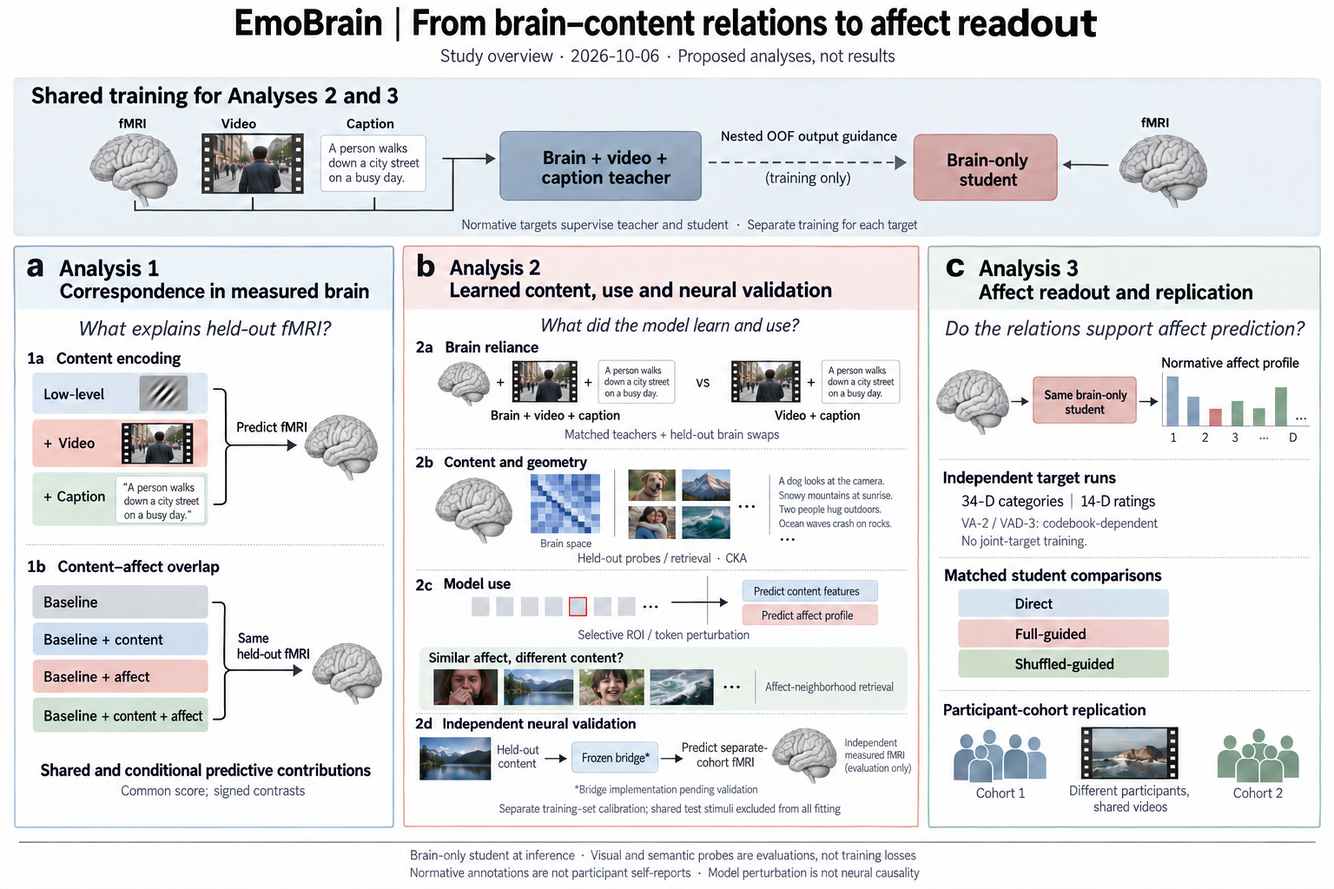
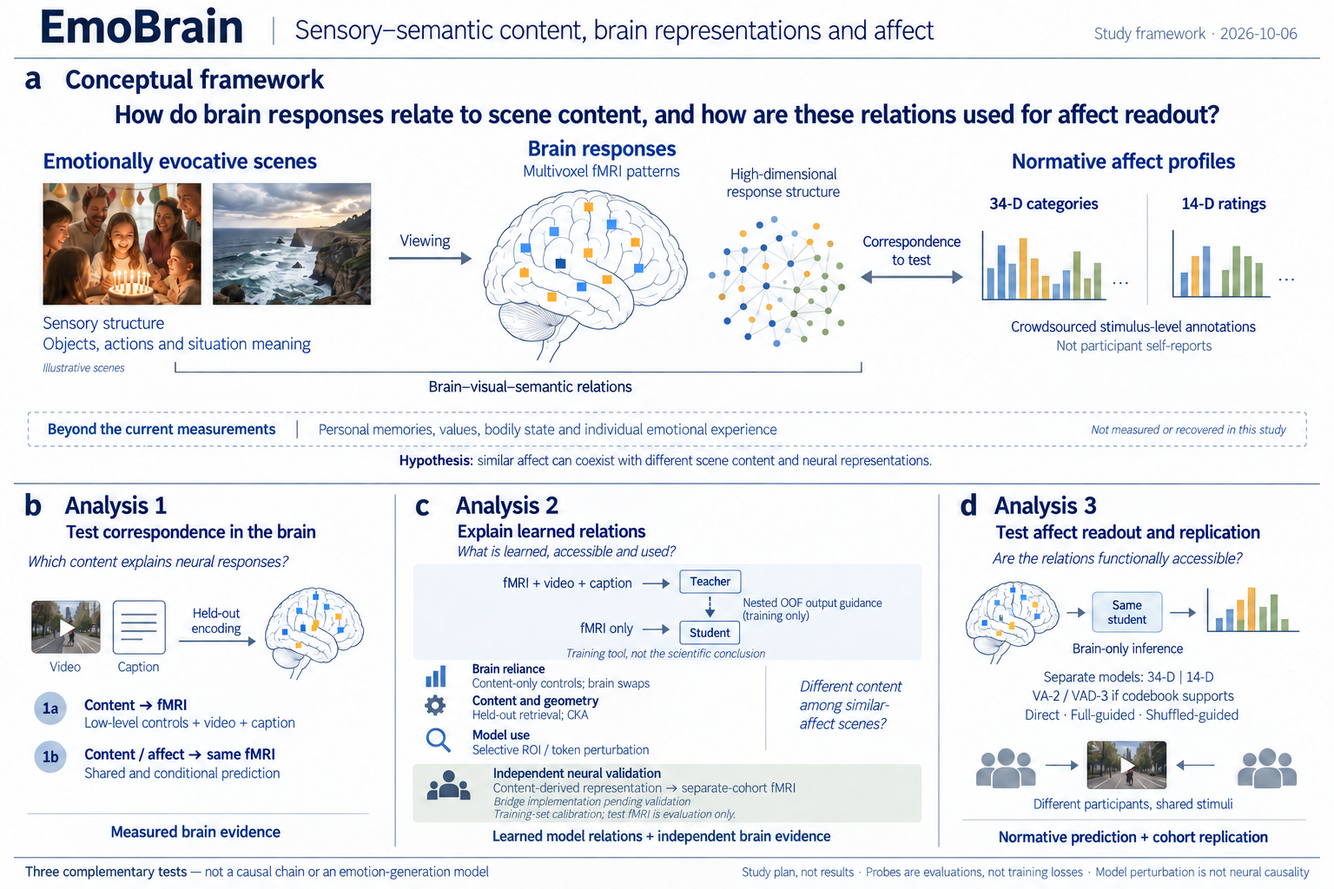
docs: center study overview on conceptual framework

diff --git a/docs/assets/study_overview.md b/docs/assets/study_overview.md
@@ -8,7 +8,9 @@ _Figure specification and editable study logic · 2026-10-06 · Not experimental
 
 ### Purpose and authority
 
-The README figure separates direct neural correspondence (Analysis 1), learned content and model use with independent neural validation (Analysis 2), and affect readout with participant-cohort replication (Analysis 3). Teacher–student training is shared preparation for Analyses 2 and 3, not a fourth analysis or a demonstration that latent geometry transfers.
+The README figure starts with the conceptual question: how do brain responses relate to scene content, and how are these relations used for affect readout? Panel a connects illustrative emotionally evocative scenes, measured multivoxel responses, high-dimensional response structure and external normative profiles. Panels b–d then distinguish direct neural correspondence (Analysis 1), learned content and model use with independent neural validation (Analysis 2), and affect readout with participant-cohort replication (Analysis 3). Teacher–student training is a subordinate tool inside Analysis 2 and also supports Analysis 3, not the study's headline or a demonstration that latent geometry transfers.
+
+The user's conceptual reference motivates the hierarchy, not new scientific commitments. Personal memories, values, bodily state and individual experience are explicitly outside current measurements. The image does not adopt a shared-scaffold / situated-conjunction decomposition, adaptive-balance mechanism or effective-dimensionality analysis. No such analysis is added by this visual revision.
 
 Sources: [study design](../current/01_STORY_AND_DESIGN.md), [neural-validation amendment](../current/06_NEURAL_VALIDATION_AMENDMENT.md) and [decision register](../current/04_DECISION_REGISTER.md). These documents govern interpretation; the figure does not freeze pending choices.
 
@@ -17,13 +19,24 @@ Sources: [study design](../current/01_STORY_AND_DESIGN.md), [neural-validation a
 1. **Question:** How do the three analyses provide distinct evidence for the brain–content thesis?
 2. **Alternative explanation:** An architecture-only diagram could imply that better prediction or output distillation alone establishes learned content and neural mechanisms.
 3. **Basis:** The accepted three-analysis design and the 1b/2d amendment linked above, not new experimental evidence.
-4. **Choice:** One three-panel study overview with a shared-training strip, rather than adding a separate analysis or repeating a detailed architecture figure.
+4. **Choice:** A large conceptual framework followed by three complementary tests; training is shown as a smaller supporting tool. The previous top-level training strip obscured the whole-study motivation, as the user's feedback identified.
 5. **Revision criterion:** Update the figure if the accepted design changes or if a depicted method fails feasibility review; do not retain obsolete arrows for visual continuity.
 6. **Limits:** No effect sizes, successful outcomes, causal emotion decomposition, individual feelings or confirmed bridge feasibility are claimed.
 
 ### Editable logic
 
-Arrows below represent data flow or evaluation branches, not biological causality. Analysis 1 is separate from teacher–student training. The frozen student supports both model interpretation and affect readout.
+The conceptual diagram below separates measured relationships from the complementary tests; the second diagram records the supporting model workflow. Connections are not evidence of biological causality. Analysis 1 is separate from teacher–student training. The frozen student supports both model interpretation and affect readout.
+
+```mermaid
+flowchart TB
+    accTitle: EmoBrain conceptual question and tests
+    accDescr: Scene viewing produces measured fMRI patterns whose correspondence with external normative profiles is tested. Three complementary analyses investigate neural correspondence, learned content and use, and affect readout with replication; personal experience is not directly measured.
+    evocative_scenes["Sensory-semantic scene content"] -->|Viewing| measured_brain["Measured multivoxel brain responses"]
+    measured_brain ---|Test correspondence| normative_profiles["External normative affect profiles"]
+    central_question["Brain-content relations and affect readout"] --> neural_test["Analysis 1: neural correspondence"]
+    central_question --> model_test["Analysis 2: learned relations and use"]
+    central_question --> readout_test["Analysis 3: readout and replication"]
+```
 
 ```mermaid
 flowchart TB
@@ -52,13 +65,15 @@ flowchart TB
 
 The raster is generated with the built-in image-generation tool using the exact prompt below. The Mermaid block is the editable logic source, not a pixel-reproducible renderer. Review is manual for text, arrows, scope and clipping; no automated journal-quality score, print certification or experimental validation is implied.
 
-Selected asset: [study_overview.png](study_overview.png). One targeted revision replaced ambiguous teacher-control pictograms with explicit brain + video + caption versus video + caption inputs, added the brain-swap diagnostic label, and replaced invented affect-dimension names with neutral indices. The final image was visually inspected for complete margins, legible major labels and the specified information boundaries. The matrix, bar heights, pictures and participant icons are illustrative; their values, affect similarity and counts are not study observations. Full-size viewing is recommended for small annotations.
+Selected asset: [study_overview.png](study_overview.png). Redesigned after the user's feedback to prioritize conceptual motivation over training. A targeted correction made fMRI an explicit teacher and student input and removed a misleading student-to-brain output arrow. The final image was visually inspected for complete margins, legible major labels and the specified information boundaries. The response-structure graph, bar heights, scene pictures, brain patches and participant icons are illustrative; their values, affect similarity, localization and counts are not study observations. Full-size viewing is recommended for small annotations. The user-supplied conceptual image was a layout reference only and is not redistributed in this repository. The former asset and prompt remain recoverable from Git history, not as duplicate active files.
 
 ## 📚 한국어
 
 ### 목적과 기준
 
-README 그림은 실제 뇌에서의 대응(분석 1), 학습된 내용·모델 내 사용과 독립 뇌 검증(분석 2), 정서 프로필 예측과 참가자 집단 간 재현(분석 3)을 구분한다. Teacher–student 학습은 분석 2·3의 공통 준비이며, 별도의 네 번째 분석이나 latent geometry 전달의 증거가 아니다.
+README 그림은 ‘장면 내용과 뇌 반응은 어떻게 관련되고, 그 관계가 정서 프로필 예측에 어떻게 사용되는가?’라는 개념적 질문으로 시작한다. 상단 a는 설명용 장면, 측정된 다중 voxel 뇌 반응, 고차원 반응 구조, 외부 규준 정서 프로필을 연결한다. 아래 b–d는 실제 뇌에서의 대응(분석 1), 학습된 내용·모델 내 사용과 독립 뇌 검증(분석 2), 정서 프로필 예측과 참가자 집단 간 재현(분석 3)을 구분한다. Teacher–student 학습은 분석 2 안의 하위 도구로 배치하고 분석 3에서도 활용한다. 연구의 핵심 결론이나 latent geometry 전달의 증거로 제시하지 않는다.
+
+사용자가 첨부한 그림에서는 개념을 먼저 보여주는 구성만 참고했다. 개인 기억·가치·신체 상태·개인 경험은 현재 측정 범위 밖임을 명시했다. Shared scaffold / situated conjunctions 분해, adaptive balance 기전, effective dimensionality 분석은 채택하거나 새로 추가하지 않았다.
 
 기준은 위에 연결한 연구 설계·보강 문서·결정 기록이다. 그림이 미확정 결정을 자동으로 동결하지 않는다.
 
@@ -67,7 +82,7 @@ README 그림은 실제 뇌에서의 대응(분석 1), 학습된 내용·모델 
 1. **질문:** 세 분석은 뇌–내용 관계라는 명제에 각각 어떤 근거를 제공하는가?
 2. **대안 설명:** 구조도만 제시하면 예측 성능 향상이나 출력 증류만으로 내용 학습과 신경 기전이 입증된 것처럼 보일 수 있다.
 3. **근거:** 승인된 세 분석과 1b/2d 보강 방향이며, 새로운 실험 결과가 아니다.
-4. **선택 이유:** 공통 학습 부분과 세 연구 질문을 한 장에 표시한다. 새 분석이나 상세 모델 구조도를 추가하지 않는다.
+4. **선택 이유:** 큰 개념적 틀 아래 세 검정을 배치하고 학습은 작은 보조 도구로 표시한다. 이전 상단 학습 박스가 전체 연구 동기를 가렸다는 사용자 피드백을 반영했다.
 5. **수정 기준:** 승인 설계가 바뀌거나 실행 가능성 검토에서 방법이 제외되면 그림도 수정한다. 모양 유지를 위해 낡은 화살표를 남기지 않는다.
 6. **한계:** 효과 크기, 성공 결과, 감정의 인과적 분해, 개인 감정, bridge 실행 가능성 확정을 주장하지 않는다.
 
@@ -84,73 +99,84 @@ README 그림은 실제 뇌에서의 대응(분석 1), 학습된 내용·모델 
 
 내장 이미지 생성 도구와 아래의 정확한 프롬프트로 PNG를 만든다. 위 Mermaid는 수정 가능한 논리 원본이며 픽셀 단위 재생성기는 아니다. 글자·화살표·범위·잘림을 직접 검수하며, 자동 저널 품질 점수나 인쇄 인증, 실험 검증을 수행했다고 주장하지 않는다.
 
-최종 파일은 [study_overview.png](study_overview.png)다. 한 차례 수정으로 teacher 대조를 뇌+영상+caption 대 영상+caption으로 명확히 표시하고 brain swap 진단을 추가했으며, 확인되지 않은 정서 차원 이름을 중립적인 번호로 교체했다. 최종 그림의 여백, 주요 글자, 정보 접근 경계를 직접 확인했다. 행렬·막대 높이·사진·참가자 아이콘의 값, 정서 유사성, 인원수는 연구 관측값이 아니다. 작은 주석은 원본 크기로 보는 것을 권장한다.
+최종 파일은 [study_overview.png](study_overview.png)다. 사용자 피드백에 따라 학습 절차보다 개념적 동기를 앞세우도록 다시 구성했다. 부분 수정으로 teacher와 student의 fMRI 입력을 명시하고, student가 뇌를 생성하는 것처럼 보이는 화살표를 제거했다. 최종 그림의 여백, 주요 글자, 정보 접근 경계를 직접 확인했다. 반응 구조 그래프·막대·장면·뇌의 색 표시·참가자 아이콘은 설명용이며 실제 값, 정서 유사성, 해부학적 위치, 인원수를 나타내지 않는다. 작은 주석은 원본 크기로 보는 것을 권장한다. 사용자 첨부 개념도는 배치 참고용이며 저장소에 재배포하지 않는다. 이전 그림과 프롬프트는 별도 현행 사본을 만들지 않고 Git 이력에 보존한다.
 
 ## 🔧 Generation prompt / 생성 프롬프트
 
 ```text
-Create a polished neuroscience STUDY OVERVIEW FIGURE for the EmoBrain GitHub README, not a result figure. Landscape 3000 by 2000 pixel preferred, exceptionally readable at 1400px wide. Nature-style restrained editorial scientific figure: white background, charcoal Helvetica/Arial typography, fine dark grey arrows and separators, generous whitespace, only muted slate blue, dusty terracotta and desaturated sage accents. No neon, no gradients, no shadows, no rounded-card infographic dashboard, no clipart emoji. Small anatomically plausible grey brain illustrations and small realistic illustrative video thumbnails make it intuitive; all scientific graphics are schematic, not experimental results. Keep all margins safe, nothing cropped.
+Create a completely redesigned, exceptionally clear full-study neuroscience overview for EmoBrain. The attached image is ONLY a reference for putting CONCEPTUAL FRAMEWORK and a prominent brain BEFORE methodology; do NOT copy its untested constructs or its individualized-experience claims.
 
-TITLE centered: "EmoBrain | From brain–content relations to affect readout"
-Small subtitle: "Study overview · 2026-10-06 · Proposed analyses, not results"
+Scientific editorial style reminiscent of Nature: white background, crisp charcoal/navy Helvetica, restrained muted blue/ochre/sage, thin rules, simple elegant brain line art with small colored response patches, realistic tiny scene illustrations, ample whitespace. No gradient panels, no dashboard cards, no neon, no stock 3D brain CGI. Landscape 3:2, high resolution. Large readable typography. Treat as a journal overview not a conference model architecture. Keep generous safe margins.
 
-LAYOUT: full-width top shared-training strip, then three vertical panels a, b, c below. Panel b slightly wider than others. Thin grey rules between panels. Main panels must be tall and airy. The main reading sequence is a to b to c but DO NOT draw causal arrows between panels. Top training strip is explicitly the common preparation for Analyses 2 and 3, not input to Analysis 1.
+TITLE "EmoBrain"
+SUBTITLE "Sensory–semantic content, brain representations and affect"
+Small date "Study framework · 2026-10-06"
 
-TOP STRIP heading "Shared training for Analyses 2 and 3".
-Left show three small inputs with unmistakable labels "fMRI", "Video", "Caption" leading together to a box labeled "Brain + video + caption teacher". IMPORTANT brain must be visible among teacher inputs.
-A dashed arrow from teacher to a student box labeled "Nested OOF output guidance" above it and "(training only)" below it. An independent fMRI brain icon arrow enters the student labeled "Brain-only student".
-Small neutral annotation below this strip: "Normative targets supervise teacher and student · Separate training for each target".
-Do not connect video or caption directly to student. Do not depict latent alignment loss. This strip is conceptual, not a detailed loss schematic.
+COMPOSITION: Top 45% is a full-width panel a with the scientific idea and central question. Bottom 55% is three aligned panels b, c, d, corresponding to Analysis 1, Analysis 2, Analysis 3. Panel c slightly wider. Main attention should be the top concept, NOT the teacher architecture. NO shared-training header at top.
 
-PANEL a title two lines: "a  Analysis 1" / "Correspondence in measured brain"
-Question italic: "What explains held-out fMRI?"
-Subheading "1a  Content encoding"
-Draw three neatly stacked feature sets "Low-level", "+ Video", "+ Caption", with a simple brace or common arrow to a small grey brain labeled "Predict fMRI". The stack indicates nested predictors, not separate image encoders.
-Subheading "1b  Content–affect overlap"
-Show FOUR small rows in a compact comparison list:
-"Baseline"
-"Baseline + content"
-"Baseline + affect"
-"Baseline + content + affect"
-One arrow from their shared brace to text "Same held-out fMRI".
-Below label: "Shared and conditional predictive contributions"
-Tiny note: "Common score; signed contrasts"
-No Venn diagram, no percentages, no fictitious quantitative result.
+TOP a heading "a  Conceptual framework"
+Central question in bold just below:
+"How do brain responses relate to scene content, and how are these relations used for affect readout?"
 
-PANEL b title "b  Analysis 2" / "Learned content, use and neural validation"
-Question italic: "What did the model learn and use?"
-Three compact rows with small meaningful visuals:
-"Brain reliance" — a brain icon and paired versus swapped input symbol; small line "Brain + content vs content-only teacher".
-"Content and geometry" — small brain representation grid next to film thumbnails and caption lines; small line "Held-out probes / retrieval · CKA".
-"Model use" — a few token squares with one outlined and arrow to two readouts; small line "Selective ROI / token perturbation".
-A distinct slim callout: "Similar affect, different content?"
-small line "Affect-neighborhood retrieval".
-Lower subheading "2d  Independent neural validation".
-A short illustrated pipeline entirely within this panel: "Held-out content" arrow "Frozen bridge*" arrow "Predict separate-cohort fMRI". Put independent measured brain icon only as evaluation comparator, not input to this path. Under line "*Bridge implementation pending validation".
-No training arrow from the evaluation brain back into the model. Caption small "Separate training-set calibration; shared test stimuli excluded from all fitting".
+Across this top panel, draw three major groups.
+LEFT group heading "Emotionally evocative scenes". Two small tasteful scene illustrations: people sharing a birthday cake, and a dramatic ocean landscape. Below them two short lines "Sensory structure" and "Objects, actions and situation meaning". Small footnote "Illustrative scenes".
+CENTER group heading "Brain responses". A large anatomically plausible line-art brain, small dispersed blue and ochre response squares on its surface, no named emotion centers. Subtitle "Multivoxel fMRI patterns". Next to brain, within same group, a small sparse cloud of interconnected colored dots, labelled "High-dimensional response structure". Do not depict a settled two-subspace theory or a dimensionality estimate.
+RIGHT group heading "Normative affect profiles". Two tiny generic multibar profiles labelled "34-D categories" and "14-D ratings". These are separate reference spaces, not simultaneous training outputs. Under profiles label "Crowdsourced stimulus-level annotations" and "Not participant self-reports".
+Draw a single solid arrow from scenes to brain labelled "Viewing". Between brain-response structure and normative profiles draw a bidirectional thin arrow labelled "Correspondence to test". A subtle bracket or line under scenes plus brain states "Brain–visual–semantic relations" (not causal mediation).
+Below these groups a small light-grey dashed-border horizontal band titled "Beyond the current measurements". Body "Personal memories, values, bodily state and individual emotional experience". No arrows from this band into the measured model. It is theoretical context, not observed variables or new analyses. Do not claim these are measured or recovered.
+One small note at bottom of panel a: "Hypothesis: similar affect can coexist with different scene content and neural representations."
+Do not claim that emotion equals visual plus semantic input. No 'adaptive balance', 'shared scaffold', 'situated conjunctions' or 'effective dimensionality estimated'.
 
-PANEL c title "c  Analysis 3" / "Affect readout and replication"
-Question italic "Do the relations support affect prediction?"
-Grey brain icon arrow "Same brain-only student" arrow small illustrative multi-bar affect profile, labelled "Normative affect profile".
-Subheading "Independent target runs"
-Text "34-D categories | 14-D ratings"
-Below smaller "VA-2 / VAD-3: codebook-dependent"
-Add "No joint-target training".
-Subheading "Matched student comparisons"
-List three small lines: "Direct" / "Full-guided" / "Shuffled-guided".
-Subheading "Participant-cohort replication"
-Two small distinct group icons and one shared video thumbnail with text "Different participants, shared videos".
-No participant counts, numeric performance, stars or assertions of success.
+BOTTOM PANEL b heading "b  Analysis 1" then "Test correspondence in the brain"
+Question italic "Which content explains neural responses?"
+Mini graphic: small VIDEO + CAPTION glyphs point via arrow labelled "Held-out encoding" to small brain.
+Two clear numbered study components:
+"1a  Content → fMRI"
+"Low-level controls + video + caption"
+"1b  Content / affect → same fMRI"
+"Shared and conditional prediction"
+Below a short summary "Measured brain evidence".
+No fake effect maps, quantitative effects, Venn proportions or significance stars.
 
-BOTTOM FOOTER separated by thin rule, two readable lines:
-"Brain-only student at inference · Visual and semantic probes are evaluations, not training losses"
-"Normative annotations are not participant self-reports · Model perturbation is not neural causality"
+BOTTOM PANEL c heading "c  Analysis 2" then "Explain learned relations"
+Question italic "What is learned, accessible and used?"
+Small SUBORDINATE preparation line at top of this lower panel:
+"Brain + video + caption → Teacher"
+"OOF output guidance → Brain-only student"
+Under it tiny label "Training tool, not the scientific conclusion".
+The student has fMRI as its ONLY input; OOF guidance is during training only. Avoid a complex architecture drawing; these two lines occupy less than 15% of panel c.
+Then three compact rows with simple icons, not giant boxes:
+"Brain reliance" / "Content-only controls; brain swaps"
+"Content and geometry" / "Held-out retrieval; CKA"
+"Model use" / "Selective ROI / token perturbation"
+A small italic question "Different content among similar-affect scenes?"
+Then a clearly separated last row:
+"Independent neural validation"
+"Content-derived representation → separate-cohort fMRI"
+Tiny note "Bridge implementation pending validation"
+and "Training-set calibration; test fMRI is evaluation only".
+Caption below panel "Learned model relations + independent brain evidence".
+Do not suggest CKA establishes use or individual feelings.
 
-All quoted text should be faithfully typeset, no added claims. Use enough whitespace and large labels. Focus on the research questions and three analysis panels, not on an overly complex neural-network architecture.
+BOTTOM PANEL d heading "d  Analysis 3" then "Test affect readout and replication"
+Question italic "Are the relations functionally accessible?"
+Small simple brain icon → small 'Same student' block → generic multi-bar profile. Label "Brain-only inference".
+Text "Separate models: 34-D | 14-D"
+Text "VA-2 / VAD-3 if codebook supports"
+Text "Direct · Full-guided · Shuffled-guided"
+Then small two participant-group icons sharing one VIDEO glyph, label "Different participants, shared stimuli".
+Caption below "Normative prediction + cohort replication".
+No exact participant counts, no joint training, no new-stimulus-distribution claims.
+
+BOTTOM FOOTER two very legible small lines:
+"Three complementary tests — not a causal chain or an emotion-generation model"
+"Study plan, not results · Probes are evaluations, not training losses · Model perturbation is not neural causality"
+
+All figures, profiles, icons and example scenes are schematic, not evidence. Preserve scientific distinctions. Avoid additional jargon, equations, giant loss boxes, crowded arrow spaghetti or tiny text. Give the scientific concept clear visual priority, with methods as supporting tests below.
 ```
 
 ### Targeted revision / 부분 수정
 
 ```text
-Edit this EmoBrain study overview with a single targeted correction. Preserve the full canvas, all other panels, title, shared training strip, typography, colors, layout and footer exactly. ONLY replace the confusing pictograms in the row labelled '2a Brain reliance' in the central Analysis 2 panel. In that row, show two clearly labelled small configurations SIDE BY SIDE: on the left a small brain icon + video thumbnail + caption sheet, with the exact short label 'Brain + video + caption'; in the middle 'vs'; on the right the same video thumbnail + caption sheet without a brain, with the exact short label 'Video + caption'. Under both configurations add the readable small text 'Matched teachers + held-out brain swaps'. No ghost outline brain, no duplicated unlabeled video, and no 'brain vs brain' diagram. Keep everything legible within that row; do not intrude into the content/geometry row below. Also remove the invented affect-dimension names below the illustrative bar profile in panel c (Joy/Sad/Anger/Fear/Disgust/Neutral) and replace them with neutral indexed labels '1  2  3  ...  D'; preserve the bar heights and the 'Normative affect profile' heading. This avoids implying an unverified annotation codebook. Make no other content changes.
+Make one surgical correction to the small training inset inside panel c (Analysis 2) of this image. Preserve EVERYTHING else exactly: the conceptual framework, all brain and scene illustrations, all text, panels b and d, the lower analysis tests, margins and layout. The training inset currently wrongly omits brain as a teacher input and shows a brain after the student, suggesting brain generation. Replace ONLY that inset diagram with this unambiguous two-row schematic, keeping within its existing rectangle. TOP ROW: exact text 'fMRI + video + caption' → a small box 'Teacher'. BOTTOM ROW: exact text 'fMRI only' → a small box 'Student'. Put Teacher directly above Student at the right so one DASHED DOWNWARD arrow goes from Teacher to Student, labelled 'Nested OOF output guidance' and '(training only)' in two short lines to its left or right. Make sure the dashed guidance arrow is visually separate from the solid fMRI input arrow. There must be NO arrow from Student to any brain illustration, NO generated fMRI, and no video/caption input to Student. REMOVE the old video icon, caption icon and output brain icon from this inset. Beneath the inset preserve the italic note 'Training tool, not the scientific conclusion'. Use clean small text rather than decorative icons for this inset. Do not change anything outside this small training inset.
 ```

diff --git a/docs/current/CHANGELOG.md b/docs/current/CHANGELOG.md
@@ -60,3 +60,8 @@ _2026-10-06 · 2026-10-04 전달본의 후속 버전_
 
 - English: Added `docs/assets/study_overview.png` and its bilingual source/scope/prompt record, with inline images and captions in both README language sections. The three panels include 1a/1b, 2a–d plus affect-neighborhood retrieval, and independent affect readouts/replication. Teacher–student training is shared preparation; the bridge remains pending validation. Illustrative graphics are not data. No scientific decisions were newly frozen and no experiment was run.
 - 한국어: `docs/assets/study_overview.png`와 영한 원본·범위·프롬프트 기록을 추가하고 README 양쪽 언어에 그림과 설명을 연결했다. 1a/1b, 2a–d와 정서 이웃 내 retrieval, 독립 정서 target·재현성을 세 패널로 나타냈다. Teacher–student 학습은 공통 준비이고 bridge는 검증 전이다. 설명용 그림은 데이터가 아니며, 과학적 결정을 새로 동결하거나 실험을 실행하지 않았다.
+
+## 📊 Concept-first overview / 개념 중심 Overview 수정 — 2026-10-06
+
+- English: Replaced the method-first image after user feedback. Panel a now presents the conceptual motivation; panels b–d show the three complementary analyses. Training moved into a small Analysis 2 inset. Personal experience and unmeasured individual factors are explicitly out of measurement scope. Updated both README captions, figure source/prompt and amendment figure status. No new scientific analysis or result was added; earlier art remains in Git history.
+- 한국어: 사용자 피드백에 따라 방법론 중심 그림을 교체했다. 상단 a는 연구 동기와 개념적 틀, 하단 b–d는 세 상보적 분석이며 학습 절차는 분석 2의 작은 영역으로 내렸다. 개인 경험과 측정하지 않은 개인 요인은 측정 범위 밖으로 명시했다. README 양쪽 설명, 도식 원본·프롬프트, 보강 문서의 그림 상태를 함께 수정했다. 새 과학적 분석이나 결과는 추가하지 않았고 이전 도안은 Git 이력에 남아 있다.

diff --git a/docs/current/06_NEURAL_VALIDATION_AMENDMENT.md b/docs/current/06_NEURAL_VALIDATION_AMENDMENT.md
@@ -220,7 +220,7 @@ claim_evidence_table
 
 ### 그림 상태
 
-2026-10-06 Nature-style overview v1은 이 보강 전 도안으로 보존하며 새 설계의 완성본으로 재배포하지 않는다. 이후 사용자 요청으로 [현재 Overview](../assets/study_overview.png)를 새로 생성해 README에 연결했다. Panel a에 1a/1b, panel b에 2a–d와 affect-neighborhood retrieval, panel c에 독립 target과 재현성을 표시하고 teacher–student 학습은 2·3의 공통 준비로 구분했다. 2d bridge 구현은 여전히 검증·동결 전임을 그림에 표시했다. [원본 논리·생성 프롬프트·검수 범위](../assets/study_overview.md)를 함께 관리한다. PNG 제작 완료는 분석 구현이나 실험 검증 완료를 뜻하지 않는다.
+2026-10-06 Nature-style overview v1은 이 보강 전 도안으로 보존하며 새 설계의 완성본으로 재배포하지 않는다. 이후 사용자 요청으로 [현재 Overview](../assets/study_overview.png)를 새로 생성해 README에 연결했다. 최신 수정은 상단 panel a를 연구의 개념적 틀로 두고, 아래 panel b–d에 분석 1·2·3을 배치한다. 1a/1b, 2a–d와 affect-neighborhood 질문, 독립 target과 재현성을 유지한다. Teacher–student 학습은 2 안의 보조 도구이며 3에서도 같은 student를 사용한다. 개인 기억·가치·신체 상태·주관 경험은 현재 측정 밖으로 구분하고 새로운 분석으로 추가하지 않았다. 2d bridge 구현은 검증·동결 전이다. [원본 논리·생성 프롬프트·검수 범위](../assets/study_overview.md)를 함께 관리하며, 이전 그림은 Git 이력에 보존한다. PNG 제작 완료는 분석 구현이나 실험 검증 완료를 뜻하지 않는다.
 
 ## 🔗 8. 근거와 검증 범위
 
